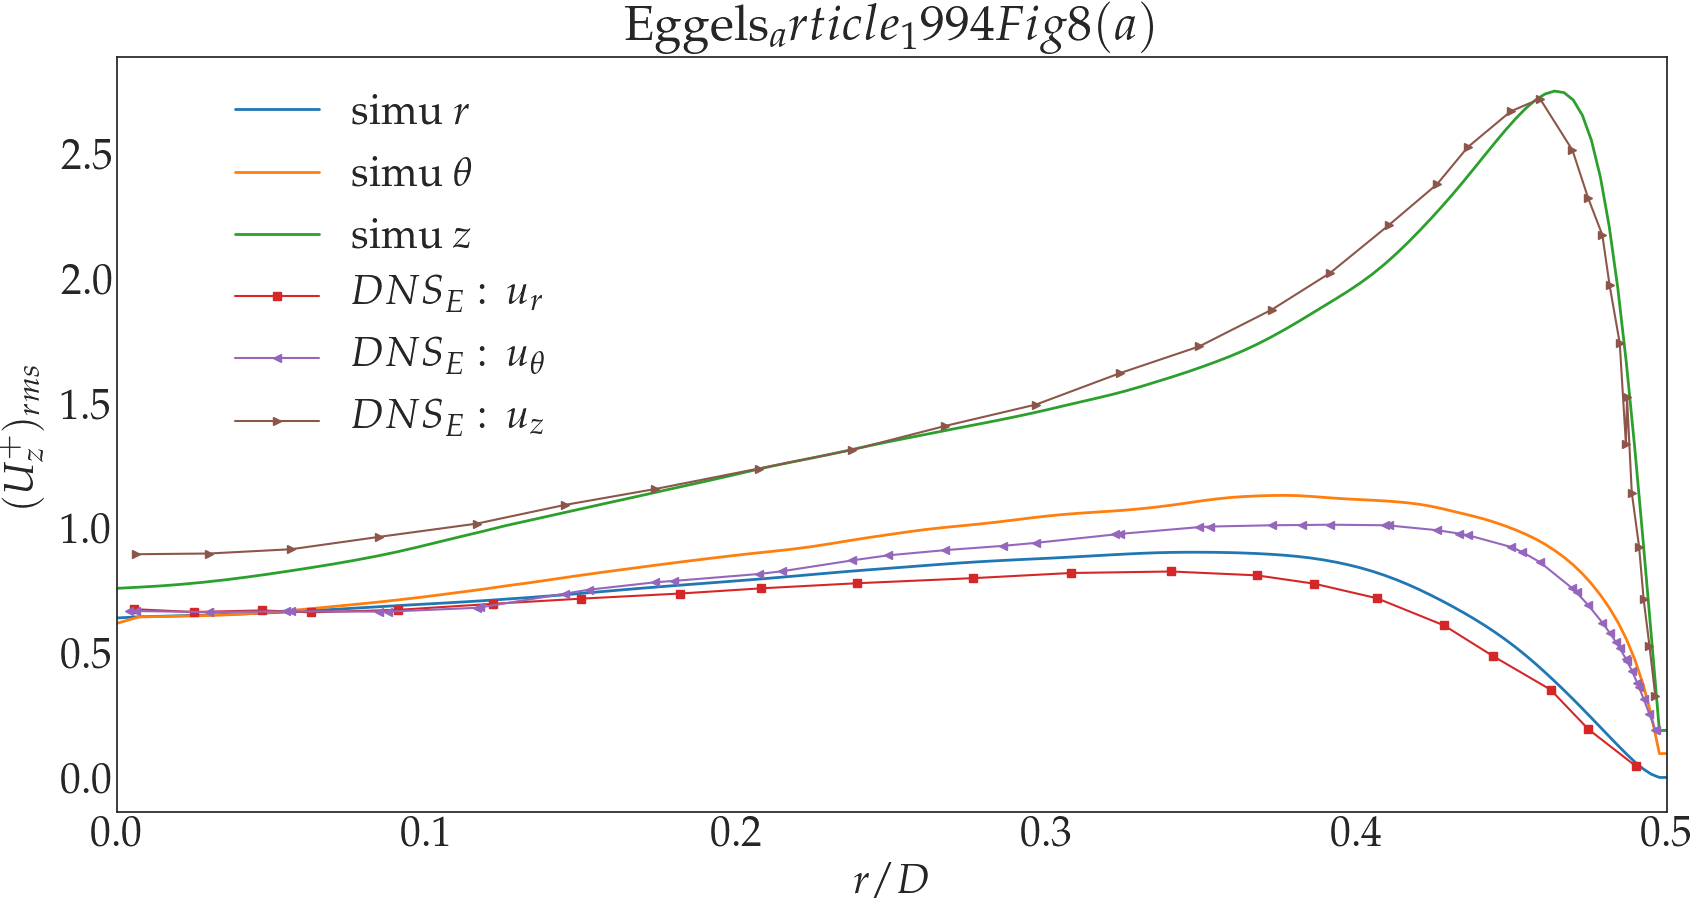
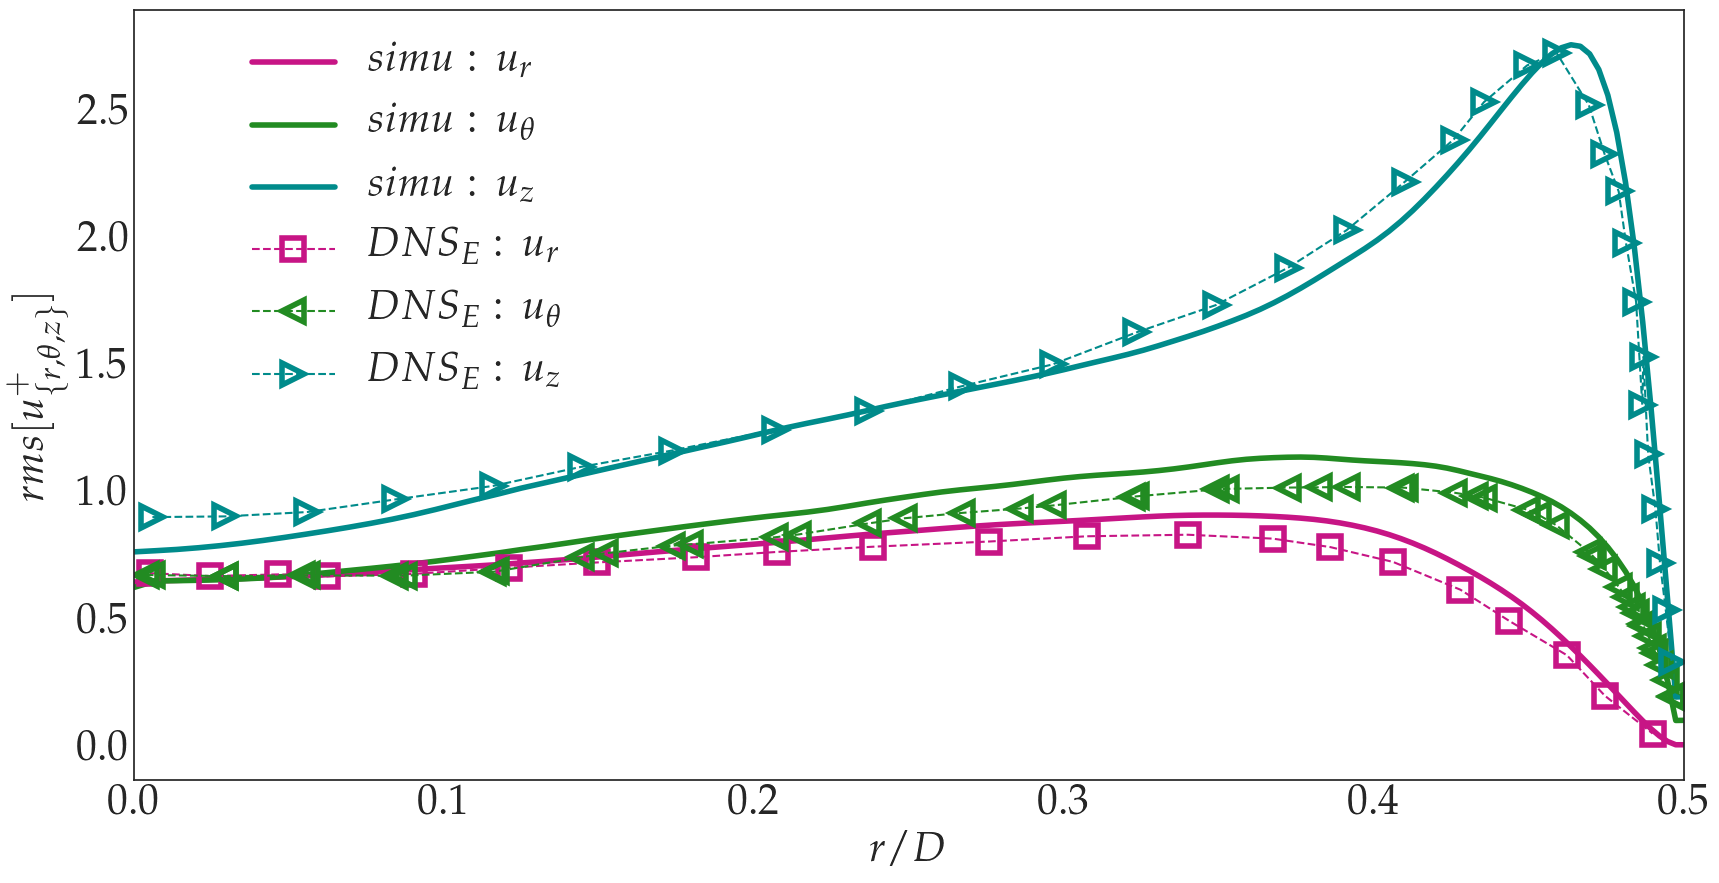
improve 0963a2b

diff --git a/Analysis/Tools/spatialSeries_returnBothInnerAndOuter/UrtzRMS.py b/Analysis/Tools/spatialSeries_returnBothInnerAndOuter/UrtzRMS.py
@@ -1,0 +1,110 @@
+import numpy as np
+import sys
+sys.path.append('/home/hluo/work/git/thesis/Thesis_hluo') # for rdb
+import reference_database as rdb
+import matplotlib
+matplotlib.use("agg")
+import matplotlib.pyplot as plt
+
+def convert2TimeDirName(string):
+    if '.' in string:
+        while string[-1] == '0':
+            string = string[:-1] # remove the trailing '0'
+        while string[-1] == '.': # then after that, remove the trailing '.'
+            string = string.rstrip('.')
+    else:
+        print 'Integer timeStep here :', string
+    return string
+
+def outputToFile(x,cmpt_1,cmpt_2,cmpt_3,paraDict,fileName):
+    import os
+    directory=paraDict['dataEntry']['path']+'/postProcessing/'+'spatialAveragedProfiles'
+    if not os.path.exists(directory):
+        os.mkdir(directory)
+    fileToWrite=directory+'/'+fileName
+    f = open(fileToWrite,'a')
+    for i in range(len(x)):
+        f.write(str(x[i]) 
+                +'\t'+ str(cmpt_1[i])
+                +'\t'+ str(cmpt_2[i])
+                +'\t'+ str(cmpt_3[i])
+                + '\n')  
+    f.close()
+
+def mainWriter():
+    import spatialSeriesReader_returnBothInnerAndOuter as ssR
+#    import parameters_pipe_periodic_approxEggels as p_appoxEggels
+    import parameters_pipe_periodic_approxEggels_addEntriesStartTime as p_appoxEggels
+#    import copy
+
+    sampleNaming='lines_typeFace_cell' 
+
+    times=np.linspace(p_appoxEggels.parameters['dataEntry']['startTime'],
+                      p_appoxEggels.parameters['dataEntry']['endTime'],
+                      p_appoxEggels.parameters['dataEntry']['NbOfFiles'])
+    
+    for time in times:
+        print time, convert2TimeDirName(str(time))
+        p_appoxEggels.parameters['dataEntry']['timeStep']=time
+        l = ssR.pre_check(p_appoxEggels.parameters,sampleNaming)
+        innerCoordData_cmpt_z = ssR.process(p_appoxEggels.parameters,validDataList=l,colonNb=3,innerVar=True)
+        innerCoordData_cmpt_r = ssR.process(p_appoxEggels.parameters,validDataList=l,colonNb=1,innerVar=True)
+        innerCoordData_cmpt_theta = ssR.process(p_appoxEggels.parameters,validDataList=l,colonNb=2,innerVar=True)
+        outputToFile(innerCoordData_cmpt_r['rByD'][::-1],
+                     innerCoordData_cmpt_r['std'],
+                     innerCoordData_cmpt_theta['std'],
+                     innerCoordData_cmpt_z['std'],
+                     p_appoxEggels.parameters,
+                     'rms_time-'+convert2TimeDirName(str(time)))
+
+#mainWriter()
+
+def mainReader():
+
+    plt.style.use('seaborn-white') # from defaut
+    plt.rcParams.update({'font.size': 30})
+    plt.rcParams['savefig.dpi'] = 100
+    
+    from matplotlib import rc
+#    rc('font',**{'family':'sans-serif','sans-serif':['Helvetica']})
+    ## for Palatino and other serif fonts use:
+    rc('font',**{'family':'serif','serif':['Palatino']})
+    rc('text', usetex=True)
+
+    colorDict={
+            'r':'mediumvioletred',
+            'theta':'forestgreen',
+            'z':'darkcyan'
+            }
+
+    import timeSeriesReader_ReturnBothInnerAndOuterVariables as tsR
+    import parameters_pipe_periodic_approxEggels_addEntriesStartTime as p_appoxEggels
+    
+    fig2,ax2 = plt.subplots(figsize=(20,10))
+    sampleNaming='rms_time'
+    
+    l = tsR.pre_check_spatialAveragedProfiles(p_appoxEggels.parameters,sampleNaming)
+    cmpt_r = tsR.process(p_appoxEggels.parameters,validDataList=l,colonNb=1)
+    cmpt_theta = tsR.process(p_appoxEggels.parameters,validDataList=l,colonNb=2)
+    cmpt_z = tsR.process(p_appoxEggels.parameters,validDataList=l,colonNb=3)
+    ax2.plot(cmpt_r['x'],cmpt_r['mean'],label=r'$simu :\,$ '+r'$u_r$',linewidth=4,color=colorDict['r'])
+    ax2.plot(cmpt_theta['x'],cmpt_theta['mean'],label=r'$simu :\,$ '+r'$u_{\theta}$',linewidth=4,color=colorDict['theta'])
+    ax2.plot(cmpt_z['x'],cmpt_z['mean'],label=r'$simu :\,$ '+r'$u_z$',linewidth=4,color=colorDict['z'])
+#    for i in range(len(outerCoordData['chunkedMean'])):
+#        ax2.plot(outerCoordData['x'],outerCoordData['chunkedMean'][i],label=('t=%.1f '+r'$z$')%p_appoxEggels.parameters['dataEntry']['timeStep'],linewidth=gs.lw)
+
+    x1, y1 = rdb.Eggels_article_1994.Fig8b_DNS_E_cmpt_r()
+    x2, y2 = rdb.Eggels_article_1994.Fig8b_DNS_E_cmpt_theta()
+    x3, y3 = rdb.Eggels_article_1994.Fig8b_DNS_E_cmpt_z()
+    ax2.plot(x1,y1,label=r'$DNS_E :\,$'+r' $u_r$',marker='s',linestyle='--',color=colorDict['r'],markeredgecolor=colorDict['r'], markerfacecolor='none', markersize=16, markeredgewidth=4)
+    ax2.plot(x2,y2,label=r'$DNS_E :\,$'+r' $u_{\theta}$',marker='<',linestyle='--',color=colorDict['theta'],markeredgecolor=colorDict['theta'], markerfacecolor='none', markersize=16, markeredgewidth=4)
+    ax2.plot(x3,y3,label=r'$DNS_E :\,$'+r' $u_z$',marker='>',linestyle='--',color=colorDict['z'],markeredgecolor=colorDict['z'], markerfacecolor='none', markersize=16, markeredgewidth=4)
+    ax2.set_xlim(0,0.5)
+    ax2.legend(bbox_to_anchor=(0.3, 1.0), ncol=1, fancybox=True, shadow=True)
+    ax2.set_xlabel(r'$r/D$')
+    ax2.set_ylabel(r'$rms[u^+_{\{r,\theta,z\}}]$')
+    #ax2.set_title('Eggels_article_1994 Fig 8(a)')
+
+    fig2.savefig("UrtzRMS.png", bbox_inches='tight')
+
+mainReader()
